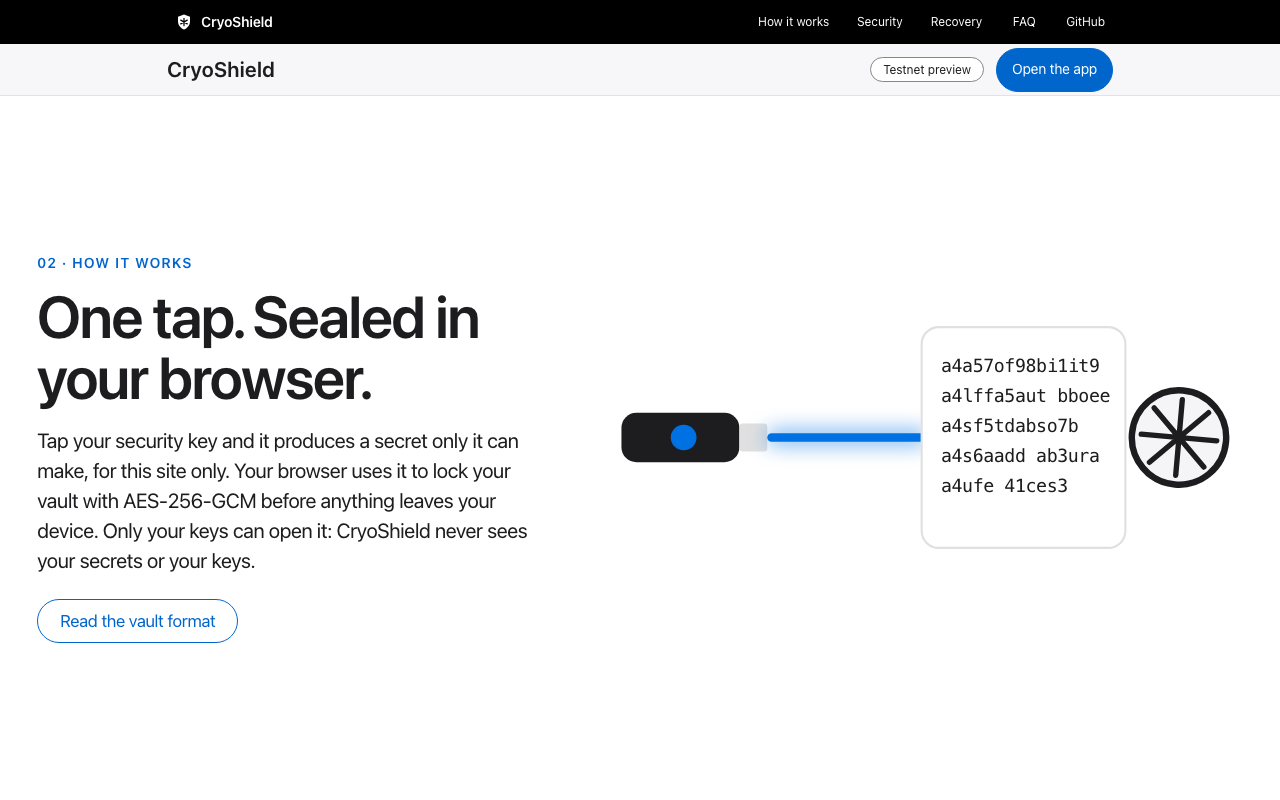
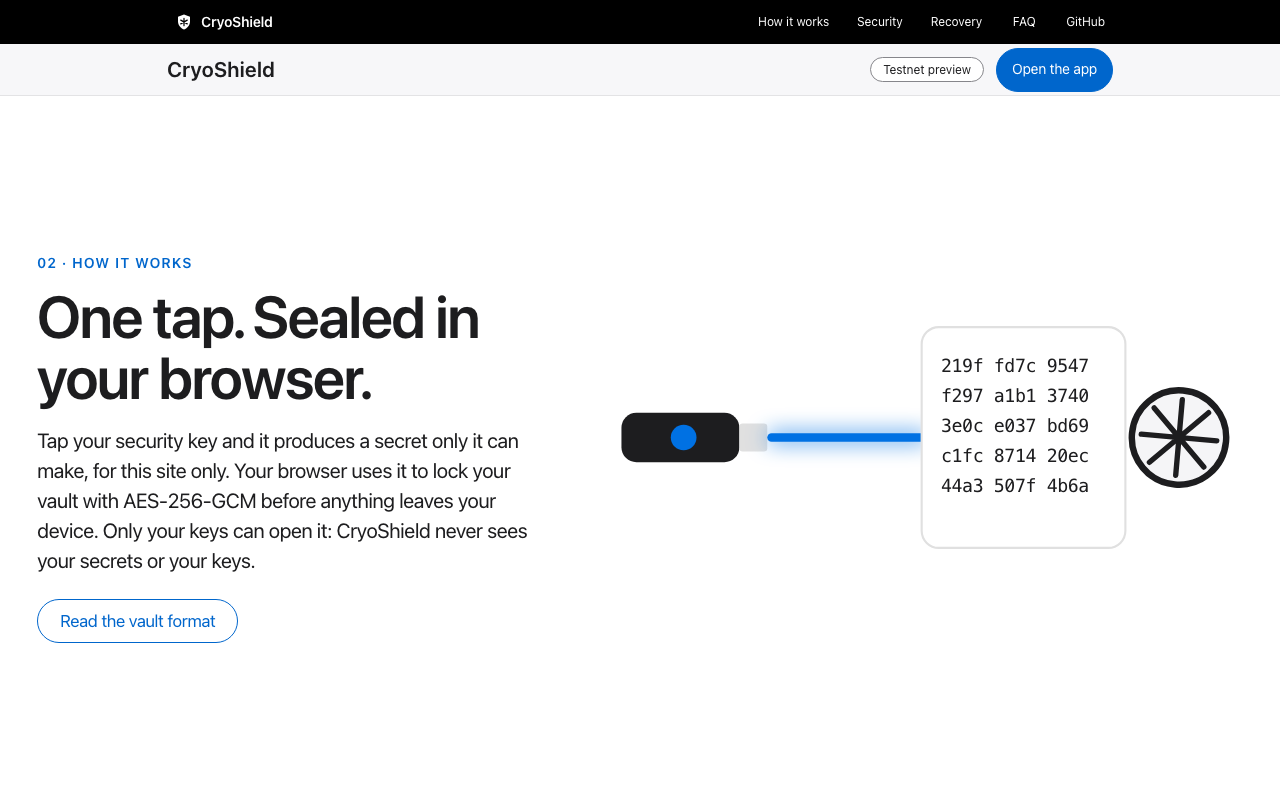
fix(web): timeline labels, real-looking ciphertext, dark sub-nav over dark tiles
- timeline: fixed 2026/2126 end labels inside the viewBox (only the
  ticks scroll); E2E asserts both stay inside the SVG at 1280 and 390
- tap scene: uniform hex groups (sha256 of a fixed seed, 3x4 chars),
  resolved from plaintext character by character in a left-to-right
  sweep; static key frame shows the ciphertext
- sub-nav: scroll-linked data-under switches to Tile-1 at 72% with
  frost blur, Body On Dark text and a light hairline over dark tiles
- regenerated screenshots, incl. a light/dark sub-nav pair

Changed region(s): [[0.7188, 0.4375, 0.875, 0.625]]

diff --git a/apps/web/e2e/specs/07-scenes.spec.ts b/apps/web/e2e/specs/07-scenes.spec.ts
@@ -64,9 +64,9 @@ test('each scene is pinned and scrubbed by scroll: progress and visuals change, 
   expect(Number(early)).toBeLessThan(2030);
   await expect(page.locator('#fragile .year')).toHaveText('2036');
   await scrollScene(page, 'how', 0.05);
-  await expect(page.locator('#how .tp-text').first()).toHaveText('abandon ability');
+  await expect(page.locator('#how .tp-text').first()).toHaveText('abandon able');
   await scrollScene(page, 'how', 1);
-  await expect(page.locator('#how .tp-text').first()).toHaveText(/^[0-9a-f]+$/);
+  for (const t of await page.locator('#how .tp-text').all()) await expect(t).toHaveText(/^[0-9a-f]{4} [0-9a-f]{4} [0-9a-f]{4}$/);
   expect(errs).toEqual([]);
 });
 
@@ -157,4 +157,46 @@ test('desktop axe with every scene live (mid-progress)', async ({ page }) => {
     const r = await new AxeBuilder({ page }).include(`#${id}`).withTags(['wcag2a', 'wcag2aa', 'wcag21aa', 'wcag22aa']).analyze();
     expect(r.violations.map((v) => `${id}: ${v.id} ${v.nodes.map((n) => n.target.join(' ')).join(', ')}`)).toEqual([]);
   }
+});
+
+for (const width of [1280, 390]) {
+  test(`timeline end labels stay fully inside the graphic at ${width}px`, async ({ page }) => {
+    await page.setViewportSize({ width, height: 844 });
+    await page.goto(LANDING);
+    for (const f of [0, 0.5, 1]) {
+      await page.evaluate((f) => {
+        const t = document.querySelector<HTMLElement>('#timeline .scene-track')!;
+        window.scrollTo({ top: t.getBoundingClientRect().top + scrollY + Math.max(0, t.offsetHeight - innerHeight) * f, behavior: 'instant' });
+      }, f);
+      await page.waitForTimeout(200);
+      const r = await page.evaluate(() => {
+        const svg = document.querySelector('#timeline svg')!.getBoundingClientRect();
+        return [...document.querySelectorAll('#timeline .tl-end')].map((el) => {
+          const b = el.getBoundingClientRect();
+          return { text: el.textContent, inside: b.left >= svg.left - 0.5 && b.right <= svg.right + 0.5 && b.top >= svg.top - 0.5 && b.bottom <= svg.bottom + 0.5 };
+        });
+      });
+      expect(r).toEqual([{ text: '2026', inside: true }, { text: '2126', inside: true }]);
+    }
+  });
+}
+
+test('the sub-nav turns dark frosted over dark tiles and back to light', async ({ page }) => {
+  await page.setViewportSize({ width: 1280, height: 800 });
+  await page.goto(LANDING);
+  const header = page.locator('.site-header');
+  await expect(header).toHaveAttribute('data-under', 'light');
+  await page.evaluate(() => {
+    const t = document.querySelector<HTMLElement>('#fragile .scene-track')!;
+    window.scrollTo({ top: t.getBoundingClientRect().top + scrollY + 300, behavior: 'instant' });
+  });
+  await expect(header).toHaveAttribute('data-under', 'dark');
+  await expect // colours transition for 250 ms
+    .poll(() => page.locator('.sub-nav').evaluate((e) => [getComputedStyle(e).backgroundColor, getComputedStyle(e).color]))
+    .toEqual(['rgba(39, 39, 41, 0.72)', 'rgb(255, 255, 255)']);
+  await page.evaluate(() => {
+    const t = document.querySelector<HTMLElement>('#how .scene-track')!;
+    window.scrollTo({ top: t.getBoundingClientRect().top + scrollY + 200, behavior: 'instant' });
+  });
+  await expect(header).toHaveAttribute('data-under', 'light');
 });

diff --git a/apps/web/index.html b/apps/web/index.html
@@ -156,13 +156,14 @@
                   <circle class="tp-pad" cx="78" cy="173" r="12" />
                 </g>
                 <rect class="tp-beam" x="156" y="169" width="150" height="8" rx="4" />
+                <!-- Illustrative ciphertext: sha256("cryoshield-landing-tap-scene-v1" || i), first 12 hex chars in groups of 4. -->
                 <g class="tp-panel">
                   <rect class="tp-card" x="300" y="70" width="190" height="206" rx="16" />
-                  <text class="tp-text" x="318" y="112" data-plain="abandon ability">245570f986a1a19</text>
-                  <text class="tp-text" x="318" y="140" data-plain="able about above">240ffa5a224bbeef</text>
-                  <text class="tp-text" x="318" y="168" data-plain="absent absorb">246f54da8367b</text>
-                  <text class="tp-text" x="318" y="196" data-plain="abstract absurd">2466aadd66d3e1a</text>
-                  <text class="tp-text" x="318" y="224" data-plain="abuse access">245f7b413e53</text>
+                  <text class="tp-text" x="318" y="112" data-plain="abandon able" data-cipher="219f fd7c 9547">219f fd7c 9547</text>
+                  <text class="tp-text" x="318" y="140" data-plain="about above" data-cipher="f297 a1b1 3740">f297 a1b1 3740</text>
+                  <text class="tp-text" x="318" y="168" data-plain="absent absorb" data-cipher="3e0c e037 bd69">3e0c e037 bd69</text>
+                  <text class="tp-text" x="318" y="196" data-plain="abstract" data-cipher="c1fc 8714 20ec">c1fc 8714 20ec</text>
+                  <text class="tp-text" x="318" y="224" data-plain="absurd abuse" data-cipher="44a3 507f 4b6a">44a3 507f 4b6a</text>
                 </g>
                 <g class="tp-door">
                   <circle class="tp-door-ring" cx="540" cy="173" r="44" />
@@ -301,13 +302,9 @@
                 <g class="tl-ruler">
                   <path class="tl-axis" d="M0 250H2600" />
                   <path class="tl-ticks" d="M300 236v28 M400 240v20 M500 236v28 M600 240v20 M700 236v28 M800 240v20 M900 236v28 M1000 240v20 M1100 236v28 M1200 240v20 M1300 236v28 M1400 240v20 M1500 236v28 M1600 240v20 M1700 236v28 M1800 240v20 M1900 236v28 M2000 240v20 M2100 236v28 M2200 240v20 M2300 236v28" />
-                  <text class="tl-year" x="300" y="296" text-anchor="middle">2026</text>
-                  <text class="tl-year" x="700" y="296" text-anchor="middle">2046</text>
-                  <text class="tl-year" x="1100" y="296" text-anchor="middle">2066</text>
-                  <text class="tl-year" x="1500" y="296" text-anchor="middle">2086</text>
-                  <text class="tl-year" x="1900" y="296" text-anchor="middle">2106</text>
-                  <text class="tl-year" x="2300" y="296" text-anchor="middle">2126</text>
                 </g>
+                <text class="tl-end tl-end-start" x="24" y="300" text-anchor="start">2026</text>
+                <text class="tl-end tl-end-end" x="576" y="300" text-anchor="end">2126</text>
                 <g class="tl-vault">
                   <rect class="tl-glow" x="236" y="64" width="128" height="128" rx="28" />
                   <rect class="tl-box" x="248" y="76" width="104" height="104" rx="22" />

diff --git a/apps/web/test/landing/scenes.test.ts b/apps/web/test/landing/scenes.test.ts
@@ -1,6 +1,6 @@
 /** cinematic-landing 3.1 / 3.3: scene maths, runtime wiring, per-scene lazy loading, counters and magnetic CTAs. */
 import { describe, expect, it, vi } from 'vitest';
-import { range, scramble, yearAt } from '../../src/landing/scenes/math';
+import { range, resolveCipher, yearAt } from '../../src/landing/scenes/math';
 import { mountScene } from '../../src/landing/scenes/runtime';
 import { bootScenes, formatStat, wireMagnetic } from '../../src/landing/boot';
 
@@ -17,12 +17,19 @@ describe('scene maths', () => {
     expect(yearAt(1, 2026, 2126)).toBe(2126);
   });
 
-  it('scramble is deterministic, keeps length, starts as plaintext and ends fully hex', () => {
-    const t = 'abandon ability';
-    expect(scramble(t, 0)).toBe(t);
-    expect(scramble(t, 0.5)).toBe(scramble(t, 0.5));
-    expect(scramble(t, 0.5)).toHaveLength(t.length);
-    expect(scramble(t, 1)).toMatch(/^[0-9a-f]+$/);
+  it('resolveCipher turns plaintext into ciphertext character by character, deterministically', () => {
+    const plain = 'abandon able';
+    const cipher = '219f fd7c 9547';
+    expect(resolveCipher(plain, cipher, 0)).toBe(plain.padEnd(14));
+    expect(resolveCipher(plain, cipher, 1)).toBe(cipher);
+    const mid = resolveCipher(plain, cipher, 0.5);
+    expect(mid).toBe(resolveCipher(plain, cipher, 0.5));
+    expect(mid).toHaveLength(14);
+    // Every position is either still plaintext or already its final ciphertext character.
+    [...mid].forEach((c, i) => expect([plain.padEnd(14)[i], cipher[i]]).toContain(c));
+    // Monotonic: more progress never un-resolves a character.
+    const resolved = (p: number) => [...resolveCipher(plain, cipher, p)].filter((c, i) => c === cipher[i] && c !== plain.padEnd(14)[i]).length;
+    expect(resolved(0.3)).toBeLessThanOrEqual(resolved(0.6));
   });
 });
 
@@ -121,5 +128,17 @@ describe('counters and magnetic CTAs', () => {
     expect(add.mock.calls.filter((c) => c[0] === 'pointermove')).toHaveLength(0);
     wireMagnetic(document, (q: string) => ({ matches: q.includes('fine') }) as MediaQueryList);
     expect(add.mock.calls.filter((c) => c[0] === 'pointermove')).toHaveLength(1);
+  });
+});
+
+describe('sub-nav theme over dark tiles', () => {
+  it('marks the header dark while a dark section is under the sub-nav, light otherwise', async () => {
+    const { subnavThemeAt } = await import('../../src/landing/boot');
+    document.body.innerHTML = '<header class="site-header"><div class="sub-nav"></div></header><section class="tile-dark"><p id="d">x</p></section><section class="tile-light"><p id="l">y</p></section>';
+    const header = document.querySelector<HTMLElement>('.site-header')!;
+    subnavThemeAt(header, [document.getElementById('d')!]);
+    expect(header.dataset.under).toBe('dark');
+    subnavThemeAt(header, [header, document.getElementById('l')!]);
+    expect(header.dataset.under).toBe('light');
   });
 });

diff --git a/apps/web/src/landing/boot.ts b/apps/web/src/landing/boot.ts
@@ -141,3 +141,37 @@ export function wireMagnetic(doc: Document, matchMedia: (q: string) => MediaQuer
     { passive: true },
   );
 }
+
+/* ---------------- Sub-nav theme: dark frosted variant over dark tiles ---------------- */
+
+const DARK_SURFACES = '.tile-dark, .tile-dark-2, .tile-dark-3, .tile-black';
+
+/** Sets header[data-under] from the elements found under the sub-nav (topmost first; the header itself is skipped). */
+export function subnavThemeAt(header: HTMLElement, elementsUnder: Element[]): void {
+  const below = elementsUnder.find((el) => !header.contains(el));
+  const dark = !!below?.closest(DARK_SURFACES);
+  const next = dark ? 'dark' : 'light';
+  if (header.dataset.under !== next) header.dataset.under = next;
+}
+
+/** Scroll-linked (rAF-throttled, passive): no layout change, so no CLS. Also active under reduced motion. */
+export function wireSubnavTheme(doc: Document, win: Window): void {
+  const header = doc.querySelector<HTMLElement>('.site-header');
+  const sub = doc.querySelector<HTMLElement>('.sub-nav');
+  if (!header || !sub || typeof doc.elementsFromPoint !== 'function') return;
+  let queued = false;
+  const check = () => {
+    queued = false;
+    const r = sub.getBoundingClientRect();
+    subnavThemeAt(header, doc.elementsFromPoint(win.innerWidth / 2, r.top + r.height / 2));
+  };
+  const queue = () => {
+    if (!queued) {
+      queued = true;
+      win.requestAnimationFrame(check);
+    }
+  };
+  win.addEventListener('scroll', queue, { passive: true });
+  win.addEventListener('resize', queue, { passive: true });
+  check();
+}

diff --git a/apps/web/src/landing/scenes/math.ts b/apps/web/src/landing/scenes/math.ts
@@ -9,18 +9,23 @@ export function yearAt(p: number, from: number, to: number): number {
   return Math.round(from + (to - from) * Math.min(1, Math.max(0, p)));
 }
 
-const HEX = '0123456789abcdef';
 const frac = (n: number) => {
   const x = Math.sin(n * 12.9898) * 43758.5453;
   return x - Math.floor(x);
 };
 
-/** Deterministic "plaintext -> ciphertext" scramble: each character flips to hex at its own threshold in (0, 1]. */
-export function scramble(text: string, p: number): string {
+/**
+ * Plaintext -> ciphertext, resolved character by character as a left-to-right sweep with a little jitter (so the line
+ * reads as "sealed part | plain part", not as interleaved word fragments). Position i flips to its final ciphertext
+ * character once p passes its threshold in (0, 1]. Deterministic and monotonic; at p = 1 it is exactly `cipher`.
+ */
+export function resolveCipher(plain: string, cipher: string, p: number): string {
+  const n = cipher.length;
+  const from = plain.padEnd(n).slice(0, n);
   let out = '';
-  for (let i = 0; i < text.length; i++) {
-    const threshold = 0.05 + 0.95 * frac(i + 1);
-    out += p >= threshold ? HEX[Math.floor(frac(i * 31 + text.charCodeAt(i)) * 16)] : text[i];
+  for (let i = 0; i < n; i++) {
+    const threshold = Math.min(1, 0.04 + (0.9 * i) / Math.max(1, n - 1) + 0.06 * frac(i + 1));
+    out += p >= threshold ? cipher[i] : from[i];
   }
   return out;
 }

diff --git a/apps/web/src/landing/scenes/tap.ts b/apps/web/src/landing/scenes/tap.ts
@@ -1,13 +1,13 @@
-import { range, scramble } from './math';
+import { range, resolveCipher } from './math';
 import type { SceneModule } from './runtime';
 
-/** The tap: plaintext lines (data-plain) scramble into ciphertext while the beam is on (textContent only). The HTML
- *  carries the final ciphertext, so the static key frame (no JS, reduced motion) shows the sealed state. */
+/** The tap: each line resolves from plaintext (data-plain) to ciphertext (data-cipher) character by character while the
+ *  beam is on (textContent only). The HTML carries the final ciphertext: the static key frame shows the sealed state. */
 const scene: SceneModule = {
   update(stage, p) {
-    const k = range(p, 0.3, 0.7);
+    const k = range(p, 0.22, 0.48); // beam reaches the card at ~0.32; sealed by ~0.5
     stage.querySelectorAll<SVGTextElement>('.tp-text').forEach((t, i) => {
-      const next = scramble(t.dataset.plain ?? '', Math.min(1, k * 1.15 - i * 0.03));
+      const next = resolveCipher(t.dataset.plain ?? '', t.dataset.cipher ?? '', Math.min(1, k * 1.15 - i * 0.03));
       if (t.textContent !== next) t.textContent = next;
     });
   },

diff --git a/apps/web/src/landing/landing.css b/apps/web/src/landing/landing.css
@@ -960,3 +960,37 @@
 .graphic.g-timeline {
   overflow: hidden;
 }
+
+/* Sub-nav over dark tiles (boot.ts sets header[data-under]): Tile-1 at 72% with the frost blur, Body On Dark text. */
+.landing .sub-nav {
+  transition:
+    background-color 0.25s ease,
+    color 0.25s ease,
+    border-color 0.25s ease;
+}
+.landing .site-header[data-under='dark'] .sub-nav {
+  background: var(--frost-tile);
+  color: var(--body-on-dark);
+  border-bottom-color: var(--hairline-on-dark);
+}
+.landing .site-header[data-under='dark'] .chip {
+  background: transparent;
+  color: var(--body-on-dark);
+  border-color: var(--body-muted);
+}
+.landing .site-header[data-under='dark'] :focus-visible {
+  outline-color: var(--color-primary-on-dark);
+}
+@media (prefers-reduced-motion: reduce) {
+  .landing .sub-nav {
+    transition: none;
+  }
+}
+
+/* Timeline end labels are fixed inside the viewBox (only the ticks scroll), so they never clip. */
+.tl-end {
+  fill: var(--body-muted);
+  font-family: var(--font-stack);
+  font-size: 22px;
+  font-weight: 600;
+}

diff --git a/apps/web/e2e/specs/90-screenshots.spec.ts b/apps/web/e2e/specs/90-screenshots.spec.ts
@@ -26,6 +26,15 @@ test('landing (cinematic-landing 4.4): hero, scene stills, reduced motion, phone
       await page.screenshot({ path: `${dir}/scene-${id}-${Math.round(f * 100)}.png` });
     }
   }
+  // Sub-nav pair: light frosted over a light tile, dark frosted over a dark tile.
+  for (const [name, id] of [['subnav-light', 'how'], ['subnav-dark', 'fragile']] as const) {
+    await page.evaluate((id) => {
+      const t = document.querySelector<HTMLElement>(`#${id} .scene-track`)!;
+      window.scrollTo({ top: t.getBoundingClientRect().top + scrollY + 300, behavior: 'instant' });
+    }, id);
+    await page.waitForTimeout(500);
+    await page.screenshot({ path: `${dir}/${name}.png`, clip: { x: 0, y: 0, width: 1280, height: 160 } });
+  }
   await page.locator('#start').scrollIntoViewIfNeeded();
   await page.waitForTimeout(300);
   await page.screenshot({ path: `${dir}/landing-final-cta.png` });

diff --git a/apps/web/src/landing/main.ts b/apps/web/src/landing/main.ts
@@ -1,7 +1,7 @@
 import '../ui/tokens.css';
 import '../ui/chrome.css';
 import './landing.css';
-import { bootCounters, bootLanding, bootScenes, wireMagnetic } from './boot';
+import { bootCounters, bootLanding, bootScenes, wireMagnetic, wireSubnavTheme } from './boot';
 
 const matchMedia = (q: string) => window.matchMedia(q);
 const IO = typeof IntersectionObserver === 'undefined' ? undefined : IntersectionObserver;
@@ -23,3 +23,4 @@ bootScenes({
 });
 bootCounters(document, matchMedia, IO);
 wireMagnetic(document, matchMedia);
+wireSubnavTheme(document, window);

diff --git a/apps/web/src/ui/tokens.css b/apps/web/src/ui/tokens.css
@@ -30,6 +30,8 @@
   --surface-chip-translucent: rgba(210, 210, 215, 0.64);
   --frost-light: rgba(245, 245, 247, 0.8);
   --frost-dark: rgba(29, 29, 31, 0.8);
+  --frost-tile: rgba(39, 39, 41, 0.72); /* Tile-1 at 72%: sub-nav over dark tiles */
+  --hairline-on-dark: rgba(255, 255, 255, 0.14);
 
   /* Text */
   --ink: #1d1d1f;

diff --git a/apps/web/docs/screenshots/README.md b/apps/web/docs/screenshots/README.md
@@ -14,6 +14,7 @@ Headless Chromium captures, regenerated by `SCREENSHOTS=1 pnpm exec playwright t
 | `scene-lose-a-key-{10,50,95}.png` | 04 "Lose a key, not your vault.": one key shatters, and the second key slides into the lock, which opens. |
 | `scene-survives-{10,50,95}.png` | 05 "Survives us too.": the website fades to "offline", and the desktop recovery tool still unlocks the vault. |
 | `scene-timeline-{10,50,95}.png` | 06 "Built for decades.": the ruler scrolls 2026 → 2126 under the intact vault, with the chain/Arweave/key caveat in the copy. |
+| `subnav-light.png`, `subnav-dark.png` | The frosted sub-nav over a light tile (Parchment 80%), and over a dark tile (Tile-1 at 72%, Body On Dark text, light hairline). Set by a scroll-linked `data-under` on the header. |
 | `landing-final-cta.png` | The full-viewport final call to action, with the testnet and unaudited note. |
 | `landing-reduced-motion.png` | Full page under `prefers-reduced-motion: reduce`: nothing pinned, each scene on its static key frame. |
 | `landing-phone.png` | Full page at 390×844: unpinned, simplified scenes with native scrolling. |

diff --git a/apps/web/docs/lighthouse-landing.md b/apps/web/docs/lighthouse-landing.md
@@ -51,6 +51,6 @@ Scenes animate only `transform`, `opacity` and SVG stroke offsets from one CSS v
 
 | Part | Size | Budget |
 |---|---|---|
-| Initial (landing entry + preload helper) | 2.11 KB | ≤ 15 KB |
+| Initial (landing entry + preload helper) | 2.32 KB | ≤ 15 KB |
 | Largest lazy chunk (scene runtime incl. Motion `scroll`) | 3.71 KB | ≤ 40 KB |
-| Whole landing graph | 6.60 KB | ≤ 120 KB |
+| Whole landing graph | 6.82 KB | ≤ 120 KB |
